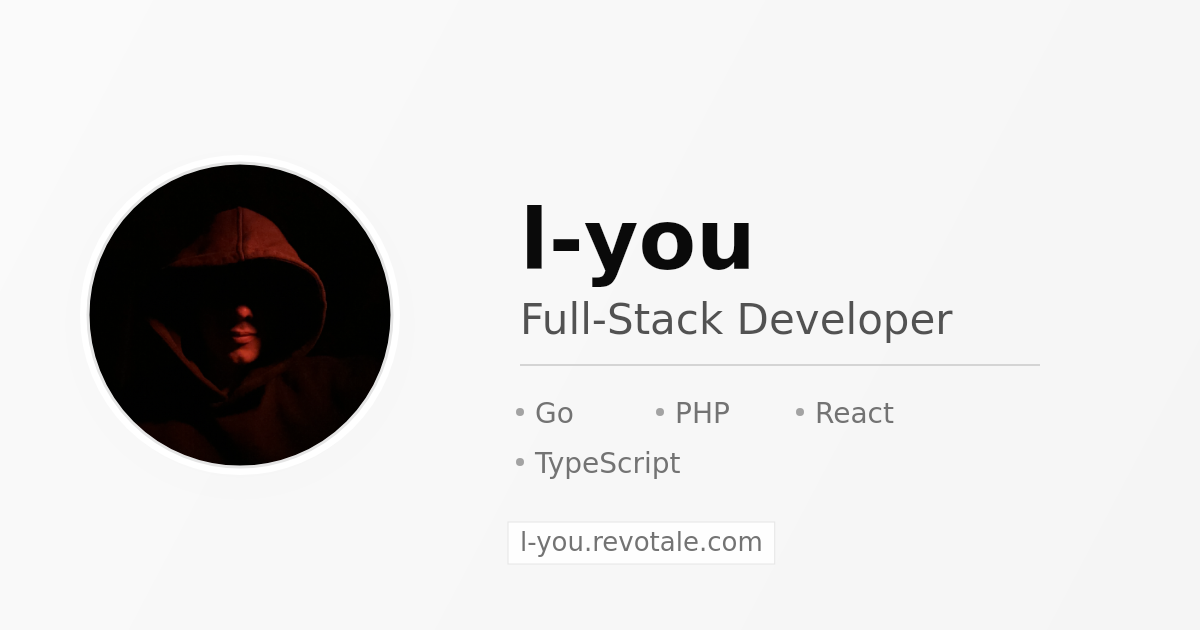
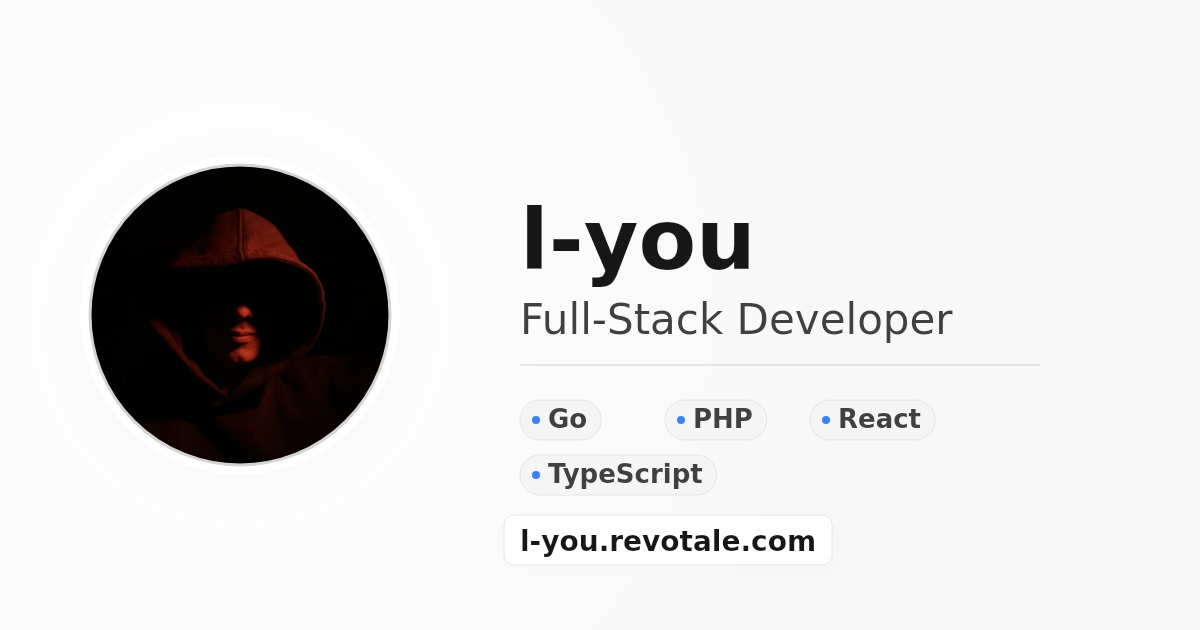
feat: add a good color contrast and cool text decoration to the generate og image. I like it.

diff --git a/scripts/generate-assets.ts b/scripts/generate-assets.ts
@@ -26,6 +26,54 @@ async function resizeImage(inputBuffer: Buffer, width: number, height: number): 
 }
 
 /**
+ * Neutral Color Palette for OG Image
+ * Matches project's shadcn/ui "neutral" base with monochromatic design
+ *
+ * Based on globals.css oklch values converted to hex:
+ * - Background: oklch(1 0 0) = #ffffff
+ * - Primary/Foreground: oklch(0.205 0 0) = #343434
+ * - Muted foreground: oklch(0.556 0 0) = #8a8a8a
+ * - Border: oklch(0.922 0 0) = #ebebeb
+ * - Secondary: oklch(0.97 0 0) = #f7f7f7
+ *
+ * Contrast ratios (WCAG):
+ * - Primary text (#171717) on white: 14.5:1 ✓ AAA
+ * - Muted text (#737373) on white: 4.8:1 ✓ AA
+ * - Border (#e5e5e5) visible on white: sufficient for decorative use
+ */
+const ogPalette = {
+	// Background - clean whites and subtle grays (neutral scale)
+	bg: {
+		base: '#ffffff', // pure white - matches --background
+		subtle: '#fafafa', // neutral-50
+		muted: '#f5f5f5', // neutral-100
+	},
+	// Text colors - high contrast neutrals
+	text: {
+		primary: '#171717', // neutral-900 - matches --foreground
+		secondary: '#404040', // neutral-700
+		muted: '#737373', // neutral-500 - matches --muted-foreground
+	},
+	// Border and decorative elements
+	border: {
+		default: '#e5e5e5', // neutral-200 - matches --border
+		strong: '#d4d4d4', // neutral-300
+		subtle: '#f5f5f5', // neutral-100
+	},
+	// Shadows - pure black with varying opacity for depth
+	shadow: {
+		soft: 'rgba(0, 0, 0, 0.06)',
+		medium: 'rgba(0, 0, 0, 0.1)',
+		strong: 'rgba(0, 0, 0, 0.15)',
+	},
+	// Single accent for tech pills - subtle blue (from ProjectCard language indicator)
+	accent: {
+		bg: '#f5f5f5', // neutral-100 as pill background
+		dot: '#3b82f6', // blue-500 - matches project card language dot
+	},
+}
+
+/**
  * Generate Open Graph image (1200x630) with profile info
  */
 async function generateOGImage() {
@@ -42,11 +90,15 @@ async function generateOGImage() {
 	const canvas = createCanvas(1200, 630)
 	const ctx = canvas.getContext('2d')
 
-	// Background gradient - subtle
-	const gradient = ctx.createLinearGradient(0, 0, 1200, 630)
-	gradient.addColorStop(0, '#fafafa')
-	gradient.addColorStop(1, '#f5f5f5')
-	ctx.fillStyle = gradient
+	// Background - clean white with subtle radial gradient for depth
+	ctx.fillStyle = ogPalette.bg.base
+	ctx.fillRect(0, 0, 1200, 630)
+
+	// Subtle radial gradient overlay for visual interest
+	const radialGradient = ctx.createRadialGradient(240, 315, 0, 240, 315, 600)
+	radialGradient.addColorStop(0, 'rgba(0, 0, 0, 0)')
+	radialGradient.addColorStop(1, 'rgba(0, 0, 0, 0.03)')
+	ctx.fillStyle = radialGradient
 	ctx.fillRect(0, 0, 1200, 630)
 
 	// Draw avatar on left side (circular with shadow)
@@ -54,36 +106,47 @@ async function generateOGImage() {
 	const avatarX = 240
 	const avatarY = 315
 
-	// Shadow
+	// Multi-layered shadow for depth - neutral shadows
 	ctx.save()
-	ctx.shadowColor = 'rgba(0, 0, 0, 0.1)'
-	ctx.shadowBlur = 30
-	ctx.shadowOffsetY = 10
+	ctx.shadowColor = ogPalette.shadow.strong
+	ctx.shadowBlur = 40
+	ctx.shadowOffsetY = 12
 	ctx.beginPath()
 	ctx.arc(avatarX, avatarY, avatarSize / 2, 0, Math.PI * 2)
-	ctx.fillStyle = '#ffffff'
+	ctx.fillStyle = ogPalette.bg.base
+	ctx.fill()
+	ctx.restore()
+
+	// Secondary softer shadow layer
+	ctx.save()
+	ctx.shadowColor = ogPalette.shadow.soft
+	ctx.shadowBlur = 60
+	ctx.shadowOffsetY = 4
+	ctx.beginPath()
+	ctx.arc(avatarX, avatarY, avatarSize / 2 - 4, 0, Math.PI * 2)
+	ctx.fillStyle = ogPalette.bg.base
 	ctx.fill()
 	ctx.restore()
 
 	// Clip to circle and draw avatar
 	ctx.save()
 	ctx.beginPath()
-	ctx.arc(avatarX, avatarY, avatarSize / 2 - 8, 0, Math.PI * 2)
+	ctx.arc(avatarX, avatarY, avatarSize / 2 - 10, 0, Math.PI * 2)
 	ctx.closePath()
 	ctx.clip()
 	ctx.drawImage(
 		avatar,
-		avatarX - (avatarSize / 2 - 8),
-		avatarY - (avatarSize / 2 - 8),
-		avatarSize - 16,
-		avatarSize - 16
+		avatarX - (avatarSize / 2 - 10),
+		avatarY - (avatarSize / 2 - 10),
+		avatarSize - 20,
+		avatarSize - 20
 	)
 	ctx.restore()
 
-	// Draw border around avatar
+	// Draw border around avatar - clean neutral border (matches --border)
 	ctx.beginPath()
-	ctx.arc(avatarX, avatarY, avatarSize / 2 - 8, 0, Math.PI * 2)
-	ctx.strokeStyle = '#e5e5e5'
+	ctx.arc(avatarX, avatarY, avatarSize / 2 - 10, 0, Math.PI * 2)
+	ctx.strokeStyle = ogPalette.border.strong
 	ctx.lineWidth = 3
 	ctx.stroke()
 
@@ -95,76 +158,110 @@ async function generateOGImage() {
 	ctx.textBaseline = 'top'
 	ctx.textAlign = 'left'
 
-	// Name - large and bold
-	ctx.fillStyle = '#0a0a0a'
+	// Name - large and bold, pure dark neutral
+	ctx.fillStyle = ogPalette.text.primary
 	ctx.font = 'bold 84px "DejaVu Sans"'
 	ctx.fillText(site.nickname, textStartX, textStartY)
 
-	// Title - medium
-	ctx.fillStyle = '#525252'
+	// Title - secondary text color
+	ctx.fillStyle = ogPalette.text.secondary
 	ctx.font = '42px "DejaVu Sans"'
 	ctx.fillText(site.title, textStartX, textStartY + 100)
 
-	// Horizontal line separator
-	ctx.strokeStyle = '#d4d4d4'
+	// Horizontal line separator - clean neutral border
+	ctx.strokeStyle = ogPalette.border.default
 	ctx.lineWidth = 2
 	ctx.beginPath()
 	ctx.moveTo(textStartX, textStartY + 165)
 	ctx.lineTo(textStartX + 520, textStartY + 165)
 	ctx.stroke()
 
-	// Tech stack - two rows layout
-	ctx.font = '28px "DejaVu Sans"'
+	// Tech stack - unified neutral pill styling
+	ctx.font = 'bold 26px "DejaVu Sans"'
 	const techStackRow1 = ['Go', 'PHP', 'React']
 	const techStackRow2 = ['TypeScript']
 	const techY = textStartY + 200
-	const techSpacing = 140
-	const rowSpacing = 50
+	const techSpacing = 145
+	const rowSpacing = 55
+
+	// Draw pill helper - consistent neutral style
+	const drawPill = (tech: string, x: number, y: number) => {
+		const textWidth = ctx.measureText(tech).width
+		const dotSize = 8
+		const dotMarginLeft = 12
+		const dotMarginRight = 8
+		const textPaddingRight = 14
+		const pillWidth = dotMarginLeft + dotSize + dotMarginRight + textWidth + textPaddingRight
+		const pillHeight = 40
+
+		// Pill background with subtle shadow
+		ctx.save()
+		ctx.shadowColor = ogPalette.shadow.soft
+		ctx.shadowBlur = 8
+		ctx.shadowOffsetY = 2
+		ctx.fillStyle = ogPalette.accent.bg
+		ctx.beginPath()
+		ctx.roundRect(x, y, pillWidth, pillHeight, 20)
+		ctx.fill()
+		ctx.restore()
+
+		// Pill border
+		ctx.strokeStyle = ogPalette.border.default
+		ctx.lineWidth = 1
+		ctx.beginPath()
+		ctx.roundRect(x, y, pillWidth, pillHeight, 20)
+		ctx.stroke()
+
+		// Blue dot indicator - vertically centered in pill
+		ctx.fillStyle = ogPalette.accent.dot
+		ctx.beginPath()
+		ctx.arc(x + dotMarginLeft + dotSize / 2, y + pillHeight / 2, dotSize / 2, 0, Math.PI * 2)
+		ctx.fill()
+
+		// Tech name - vertically centered in pill
+		const textX = x + dotMarginLeft + dotSize + dotMarginRight
+		const textY = y + (pillHeight - 26) / 2 // 26 is approximate font height for bold 26px
+		ctx.fillStyle = ogPalette.text.secondary
+		ctx.fillText(tech, textX, textY)
+	}
 
 	// First row: Go, PHP, React
 	techStackRow1.forEach((tech, i) => {
-		// Draw bullet point
-		ctx.fillStyle = '#a3a3a3'
-		ctx.beginPath()
-		ctx.arc(textStartX + i * techSpacing, techY + 12, 4, 0, Math.PI * 2)
-		ctx.fill()
-
-		// Draw tech name
-		ctx.fillStyle = '#737373'
-		ctx.fillText(tech, textStartX + i * techSpacing + 15, techY)
+		drawPill(tech, textStartX + i * techSpacing, techY)
 	})
 
 	// Second row: TypeScript
 	techStackRow2.forEach((tech, i) => {
-		// Draw bullet point
-		ctx.fillStyle = '#a3a3a3'
-		ctx.beginPath()
-		ctx.arc(textStartX + i * techSpacing, techY + rowSpacing + 12, 4, 0, Math.PI * 2)
-		ctx.fill()
-
-		// Draw tech name
-		ctx.fillStyle = '#737373'
-		ctx.fillText(tech, textStartX + i * techSpacing + 15, techY + rowSpacing)
+		drawPill(tech, textStartX + i * techSpacing, techY + rowSpacing)
 	})
 
-	// Domain at bottom with improved styling
-	const domainY = 530
+	// Domain at bottom with card-like styling
+	const domainY = 525
 	const domainText = site.domain.replace('https://', '')
-	ctx.font = '26px "DejaVu Sans"'
+	ctx.font = 'bold 28px "DejaVu Sans"'
 	const domainWidth = ctx.measureText(domainText).width
 
-	// Background for domain - more prominent
-	ctx.fillStyle = 'rgba(255, 255, 255, 0.9)'
-	ctx.fillRect(textStartX - 12, domainY - 8, domainWidth + 24, 42)
+	// Card background with shadow
+	ctx.save()
+	ctx.shadowColor = ogPalette.shadow.medium
+	ctx.shadowBlur = 16
+	ctx.shadowOffsetY = 4
+	ctx.fillStyle = ogPalette.bg.base
+	ctx.beginPath()
+	ctx.roundRect(textStartX - 16, domainY - 10, domainWidth + 32, 50, 10)
+	ctx.fill()
+	ctx.restore()
 
-	// Add subtle border
-	ctx.strokeStyle = '#e5e5e5'
+	// Card border - matches --border
+	ctx.strokeStyle = ogPalette.border.default
 	ctx.lineWidth = 1
-	ctx.strokeRect(textStartX - 12, domainY - 8, domainWidth + 24, 42)
+	ctx.beginPath()
+	ctx.roundRect(textStartX - 16, domainY - 10, domainWidth + 32, 50, 10)
+	ctx.stroke()
 
-	// Domain text - darker for better readability
-	ctx.fillStyle = '#737373'
-	ctx.fillText(domainText, textStartX, domainY)
+	// Domain text - primary color for emphasis
+	ctx.fillStyle = ogPalette.text.primary
+	ctx.fillText(domainText, textStartX, domainY + 3)
 
 	// Save OG image
 	const ogBuffer = canvas.toBuffer('image/png')
